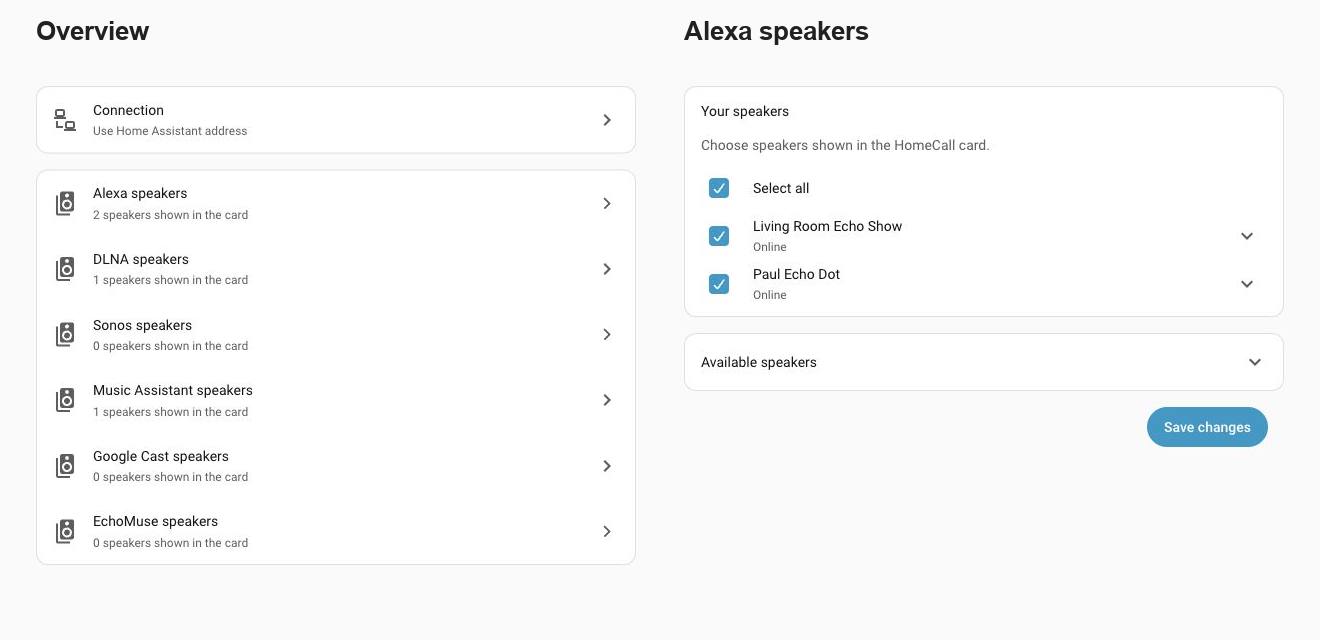
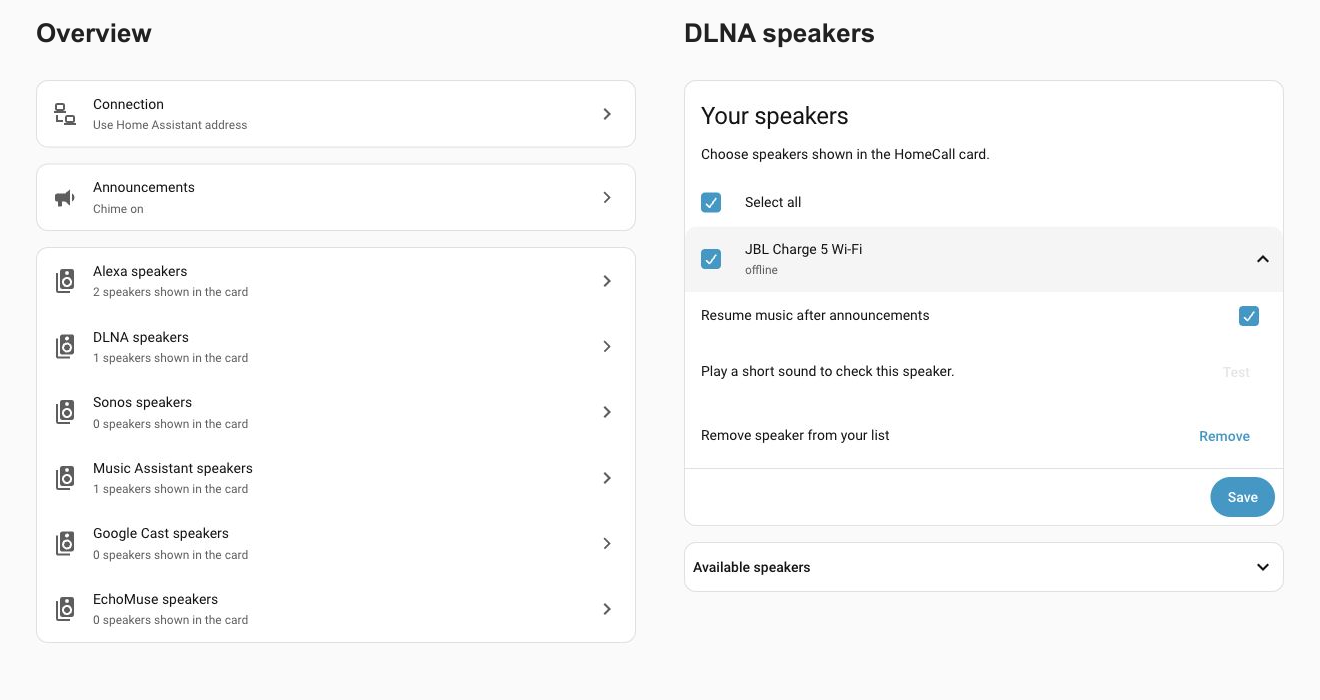
docs: refresh settings screenshots with expanded DLNA options

diff --git a/README.md b/README.md
@@ -36,9 +36,9 @@ HomeCall turns microphone recordings into short speaker announcements. It handle
 
 ## Screenshots
 
-Overview and Alexa speaker setup in the HomeCall integration.
+Overview and expanded DLNA speaker options in the HomeCall integration.
 
-[![HomeCall settings overview and Alexa speaker setup](docs/assets/ui-configuration.svg)](docs/assets/ui-configuration.svg)
+[![HomeCall settings overview and expanded DLNA speaker options](docs/assets/ui-configuration.svg)](docs/assets/ui-configuration.svg)
 
 The separately installed [HomeCall Card](https://github.com/thomasgregg/homecall-card#screenshots) provides the recording interface, with a live waveform, countdown, and speaker picker.
 
